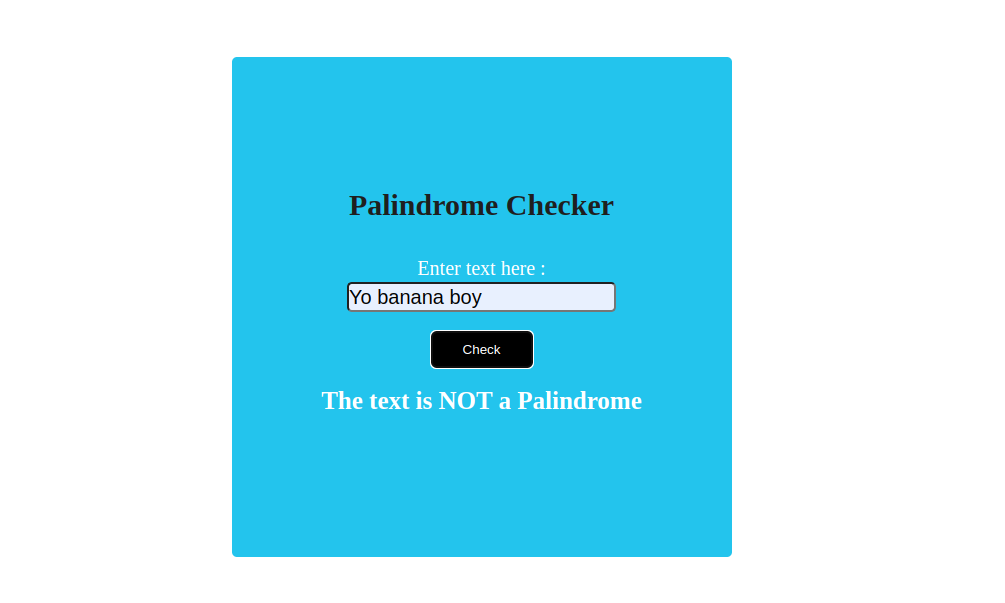
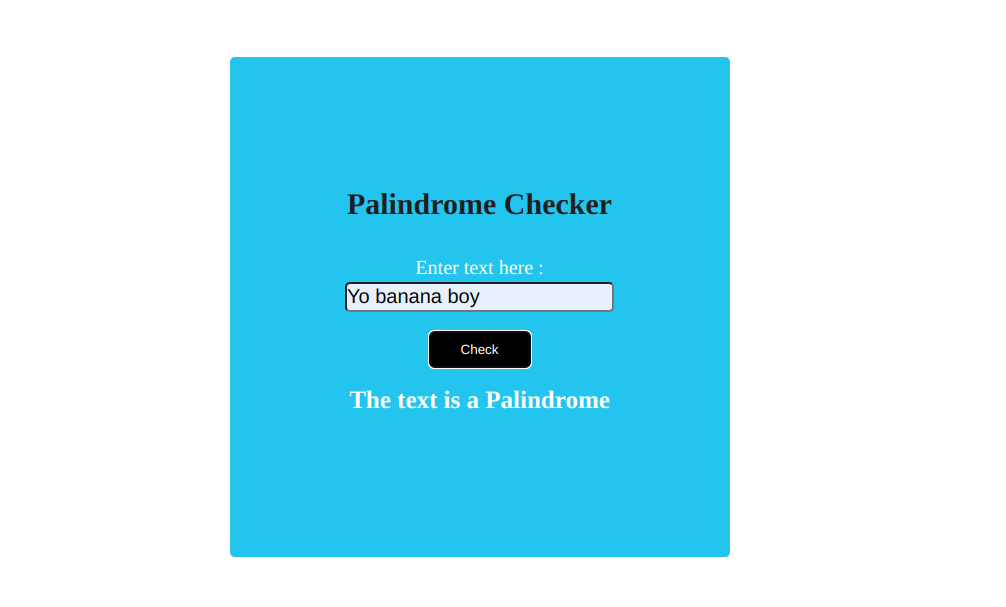
Palindrome checker app made case-insensitive

diff --git a/Projects/17-palindromeChaecker/script.js b/Projects/17-palindromeChaecker/script.js
@@ -1,6 +1,6 @@
 let result = document.querySelector(".result")
 document.querySelector(".btn").addEventListener("click", () => {
-    let userInput = document.getElementById("isPalindrome").value;
+    let userInput = document.getElementById("isPalindrome").value.toLowerCase();
     let iArr = Array.from(userInput);
 
     let ipArr = iArr.filter((e) => {
